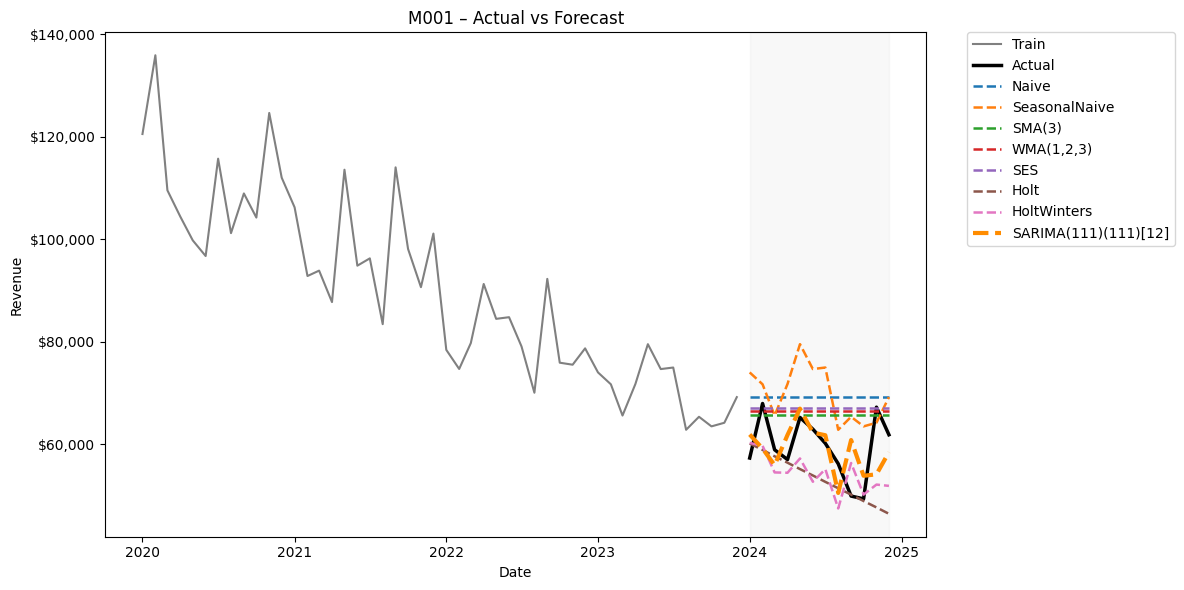
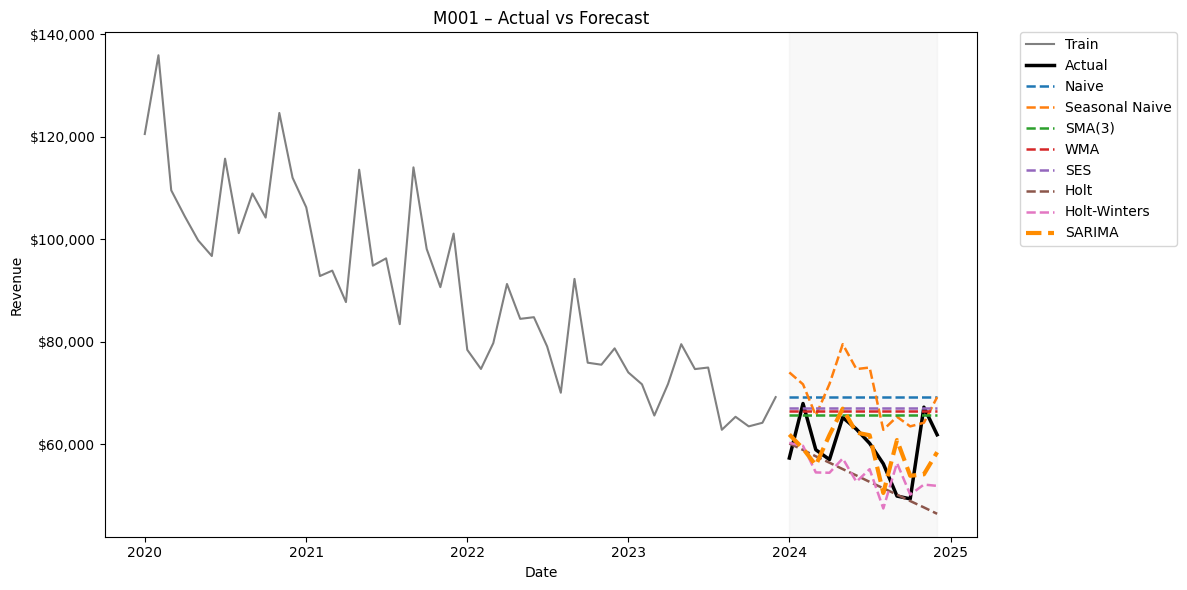
commit

diff --git a/source/single_merchant_forecast.py b/source/single_merchant_forecast.py
@@ -15,7 +15,7 @@ df = merchant_revenue_df.copy()
 df["date"] = pd.to_datetime(df["date"]).dt.to_period("M").dt.to_timestamp()
 
 # filter df where merchant_id is "M###"
-m_id = "M029"
+m_id = "M001"
 
 # filter for merchant and set index
 d = df[df["merchant_id"] == m_id].set_index("date")
